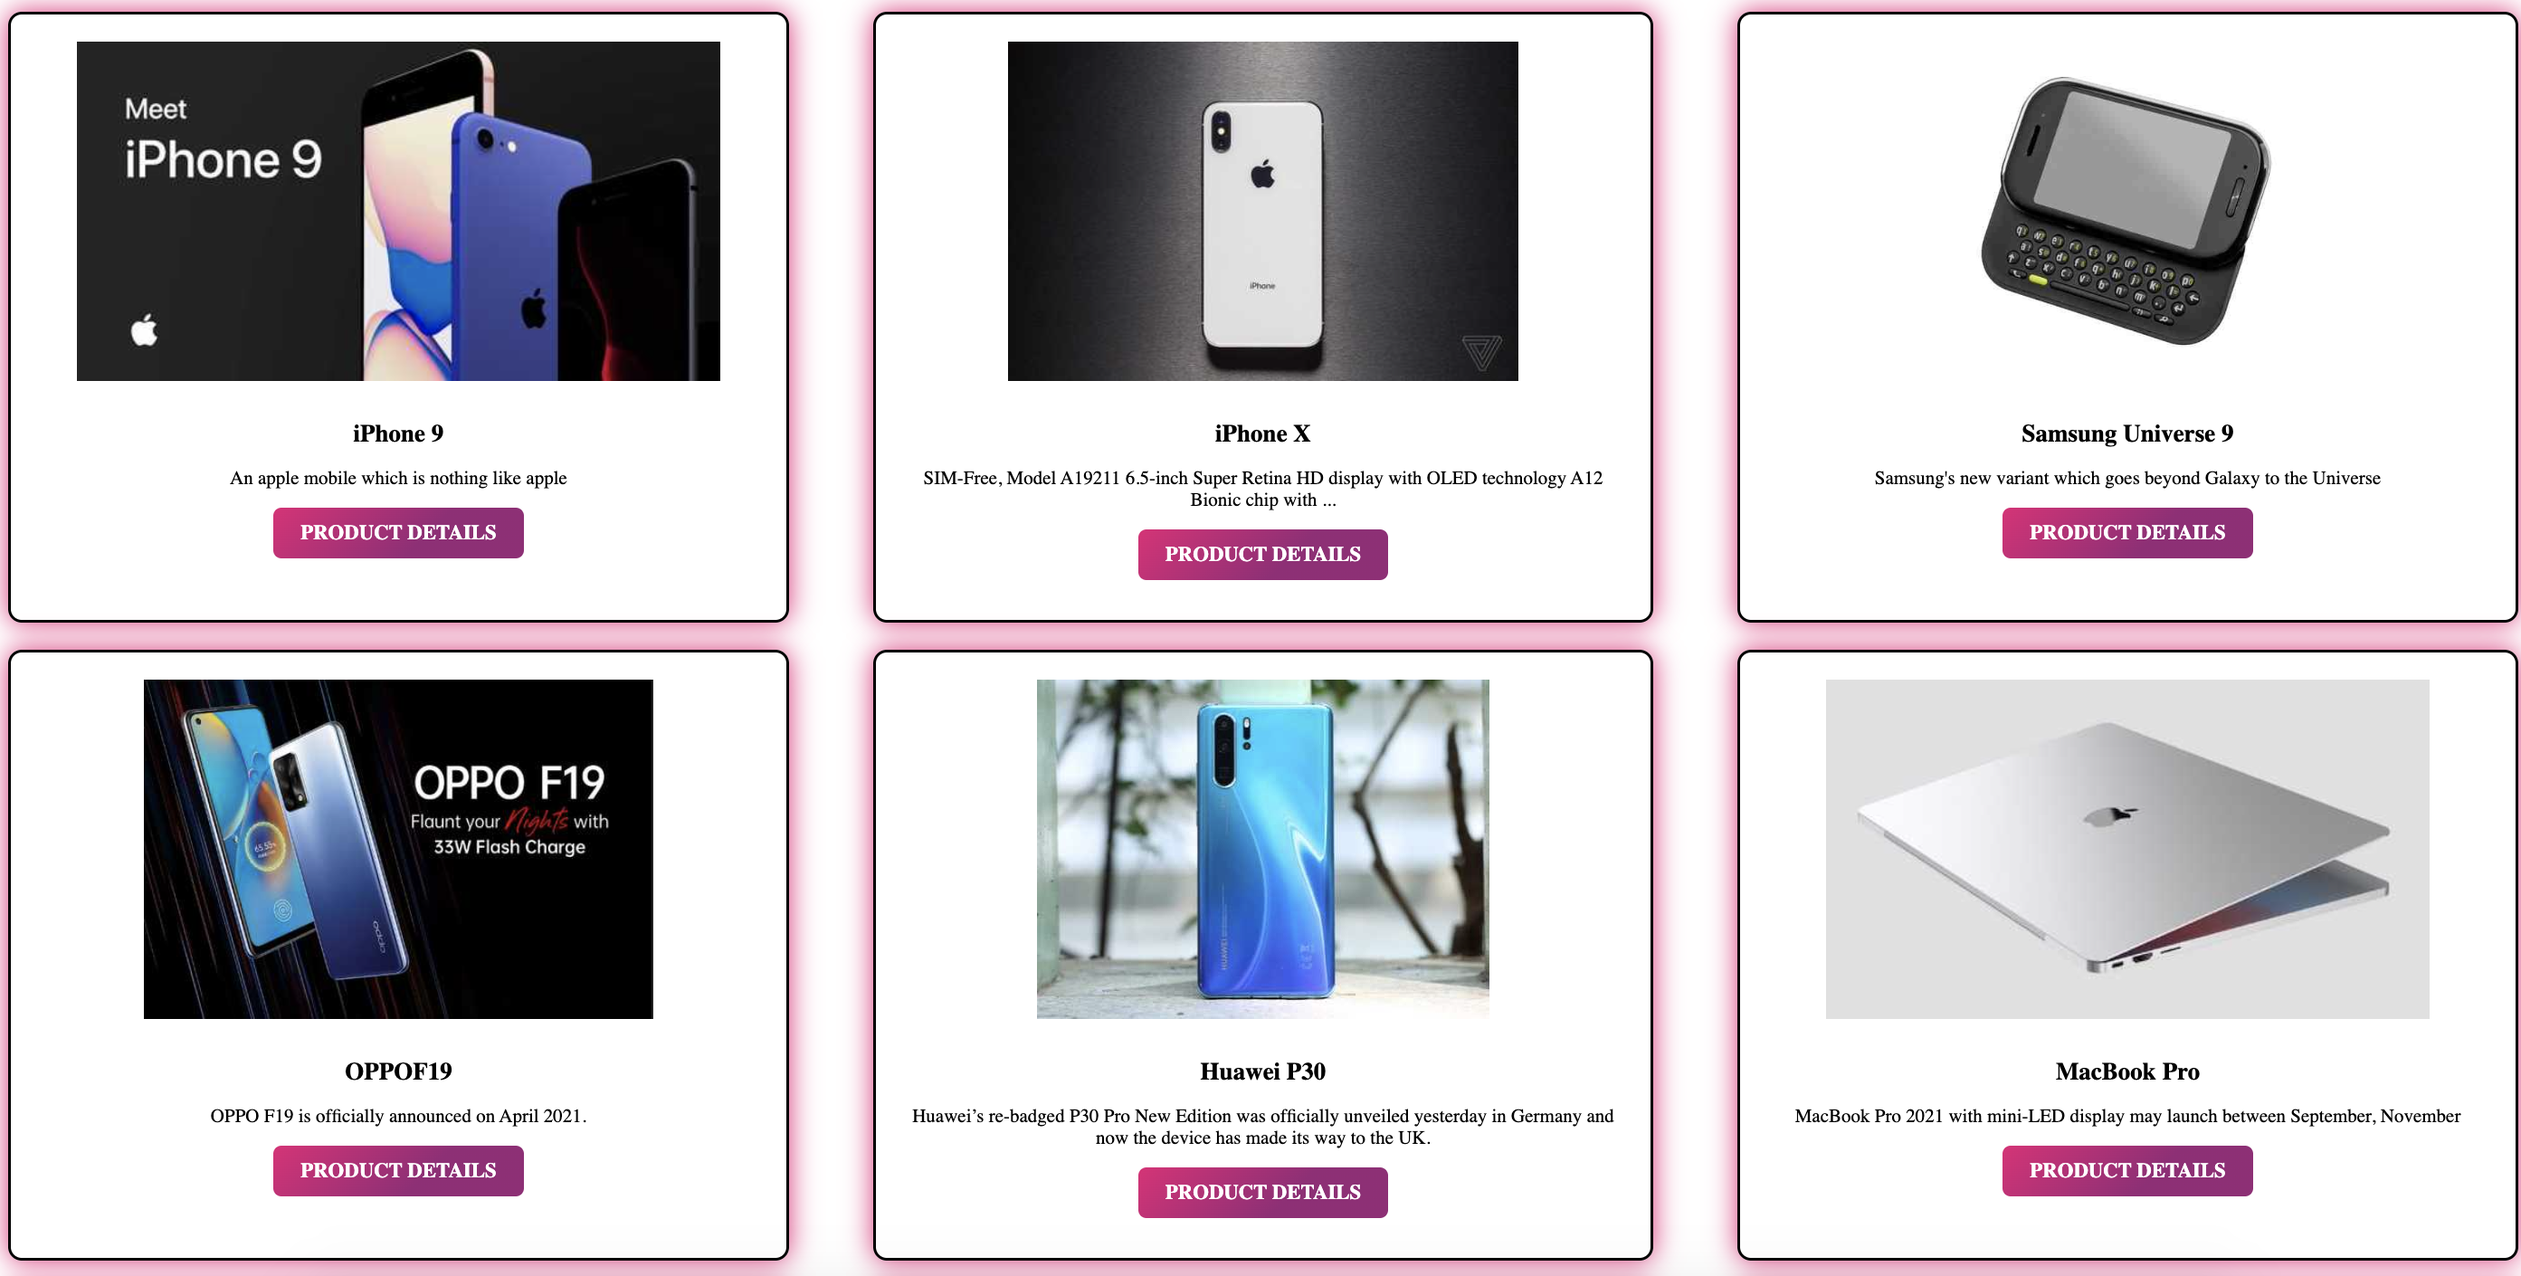
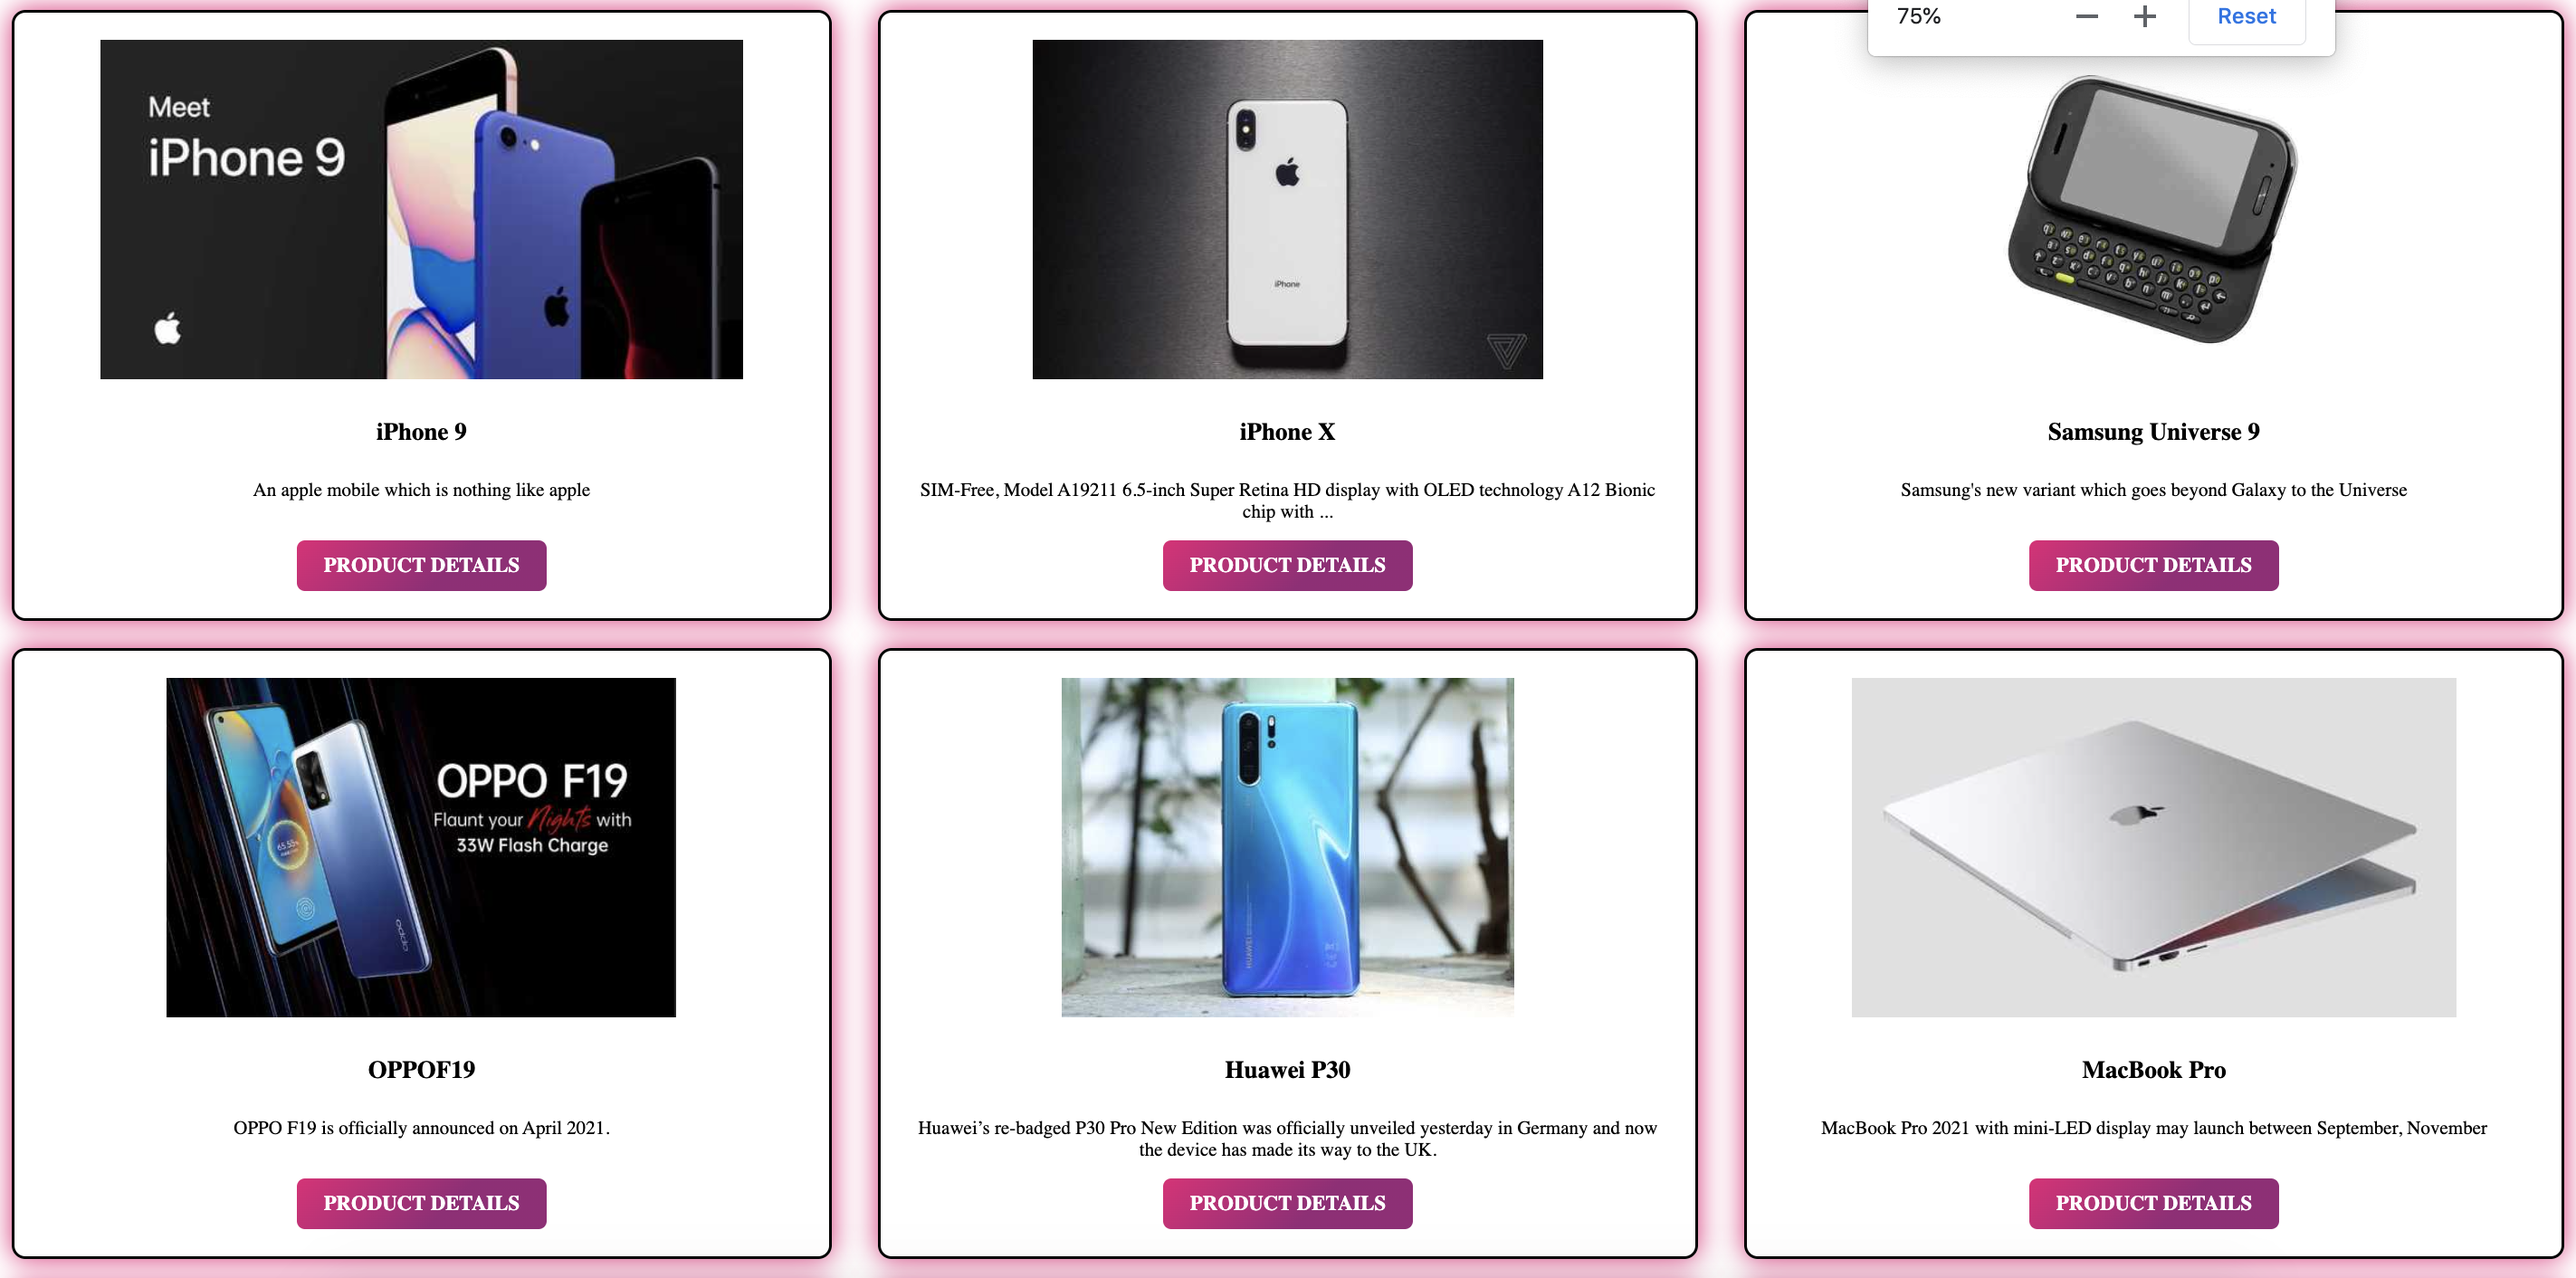
final format

diff --git a/src/pages/product/[id].js b/src/pages/product/[id].js
@@ -1,34 +1,21 @@
 import Link from 'next/link';
-import styles from '../index.module.css'; 
+import ProductDetailCard from '../../../components/ProductDetailCard';
+import { fetchProductById, fetchProducts } from '../../../utils/api';
 
 const ProductDetail = ({ product }) => {
   return (
-    <div className={styles.centeredContainer}>
-
-    <div className={styles.productDetail}> {/* Apply the CSS class */}
-      <img
-        src={product.thumbnail}
-        alt={product.title}
-        className={styles.cardImage}
-      />
-      <h2>{product.title}</h2>
-      <p>{product.description}</p>
-      <Link href="/">
-        <a className={styles.productDetailsButton}>Back to Home</a> {/* Apply the new CSS class */}
-      </Link>
-    </div> 
+    <div>
+      <ProductDetailCard product={product} /> {/* Use the ProductDetailCard component */}
     </div>
- 
   );
 };
 
 export async function getStaticPaths() {
-  // Fetch product IDs from the API
-  const response = await fetch('https://dummyjson.com/products');
-  const products = await response.json();
+  // Fetch product IDs from the API to generate paths
+  const products = await fetchProducts();
 
   // Generate paths for each product
-  const paths = products.products.map((product) => ({
+  const paths = products.map((product) => ({
     params: { id: product.id.toString() },
   }));
 
@@ -36,13 +23,19 @@ export async function getStaticPaths() {
 }
 
 export async function getStaticProps({ params }) {
-  // Fetch the specific product using the ID from the API
-  const response = await fetch(`https://dummyjson.com/products/${params.id}`);
-  const product = await response.json();
+  try {
+    // Fetch the specific product using the API function
+    const product = await fetchProductById(params.id);
 
-  return {
-    props: { product },
-  };
+    return {
+      props: { product },
+    };
+  } catch (error) {
+    console.error(`Error fetching product with ID ${params.id}:`, error);
+    return {
+      props: { product: null },
+    };
+  }
 }
 
 export default ProductDetail;

diff --git a/components/ProductCard.module.css b/components/ProductCard.module.css
@@ -5,7 +5,8 @@
 }
 
 .productCard {
-  flex-basis: calc(31.31% - 10px);
+  position: relative;
+  flex-basis: calc(32.31% - 10px);
   border: 2px solid black;
   padding: 20px;
   margin: 10px;
@@ -21,7 +22,13 @@
   box-shadow: 0 0 20px rgba(230, 21, 119, 1);
 }
 
-
+.buttonContainer {
+  position: absolute;
+  bottom: 20px;
+  left: 0;
+  width: 100%;
+  text-align: center;
+}
 
 .productDetailsButton {
   display: inline-block;
@@ -52,6 +59,15 @@
   margin-bottom: 10px;
 }
 
+.descriptionContainer {
+  max-height: 200px;
+  overflow: hidden;
+}
+
+.productDescription {
+  font-size: 14px;
+}
+
 .productCard h2 {
   font-size: 18px;
   margin-bottom: 10px;
@@ -66,54 +82,6 @@
   color: blue;
 }
 
-/* productDetail.module.css */
-.centeredContainer {
-  display: flex;
-  justify-content: center; /* Center horizontally */
-  align-items: center; /* Center vertically */
-  height: 100vh; /* Make the container full viewport height */
-}
-
-.productDetail {
-  border: 2px solid black;
-  padding: 20px;
-  margin: 10px;
-  text-align: center;
-  height: 600px;
-  border-radius: 10px;
-  overflow: hidden;
-  max-width: 400px;
-}
-
-.productCardone {
-  border: 2px solid black;
-  padding: 20px;
-  margin: 10px;
-  box-sizing: border-box;
-  text-align: center;
-  height: 600px;
-  border-radius: 10px;
-  overflow: hidden;
-  max-width: 400px;
-
-}
-
-.productDetail img {
-  max-width: 100%;
-  max-height: 100%;
-  margin-bottom: 10px;
-}
-
-.productDetail h2 {
-  font-size: 18px;
-  margin-bottom: 10px;
-}
-
-.productDetail p {
-  font-size: 14px;
-}
-
-
 /* Media query for smaller screens */
 @media screen and (max-width: 768px) {
   .productList {
@@ -123,5 +91,12 @@
 
   .productCard {
     flex-basis: 100%;
+  }
+
+  .buttonContainer {
+    position: relative; 
+    bottom: auto;
+    width: auto;
+    margin-top: 10px; 
   }
 }

diff --git a/src/pages/index.js b/src/pages/index.js
@@ -1,23 +1,13 @@
-
 import Link from 'next/link';
-import styles from './index.module.css'; 
+import styles from '../../components/ProductCard.module.css';
+import { fetchProducts } from '../../utils/api';
+import ProductCard from '../../components/ProductCard';
 
 const Home = ({ products }) => {
   return (
-    <div className={styles.productList}> {/* Apply the CSS class */}
+    <div className={styles.productList}>
       {products.map((product) => (
-        <div className={styles.productCard} key={product.id}>
-          <img
-            src={product.thumbnail}
-            alt={product.title}
-            className={styles.productImage}
-          />
-          <h2>{product.title}</h2>
-          <p>{product.description}</p>
-          <Link href={`/product/${product.id}`}>
-            <a className={styles.productDetailsButton}>Product Details</a> {/* Apply the new CSS class */}
-          </Link>
-        </div>
+        <ProductCard key={product.id} product={product} />
       ))}
     </div>
   );
@@ -25,17 +15,8 @@ const Home = ({ products }) => {
 
 export async function getStaticProps() {
   try {
-    const response = await fetch('https://dummyjson.com/products');
-
-    if (!response.ok) {
-      throw new Error('API request failed');
-    }
-
-    const data = await response.json();
-    const products = data.products; // Access the "products" array
-
-    // Log the products to inspect the data
-    console.log('Fetched products:', products);
+    // Fetch products using the API function
+    const products = await fetchProducts();
 
     return {
       props: { products },
@@ -43,7 +24,7 @@ export async function getStaticProps() {
   } catch (error) {
     console.error('Error fetching products:', error);
     return {
-      props: { products: [] }, 
+      props: { products: [] },
     };
   }
 }

diff --git a/components/ProductDetailCard.module.css b/components/ProductDetailCard.module.css
@@ -1,0 +1,64 @@
+
+.centeredContainer {
+    display: flex;
+    justify-content: center; 
+    align-items: center;
+    height: 100vh;
+  }
+  
+  .productDetail {
+    border: 2px solid black;
+    padding: 20px;
+    margin: 10px;
+    text-align: center;
+    height: 600px;
+    border-radius: 10px;
+    overflow: hidden;
+    max-width: 400px;
+  }
+  
+  .productCardone {
+    border: 2px solid black;
+    padding: 20px;
+    margin: 10px;
+    box-sizing: border-box;
+    text-align: center;
+    height: 600px;
+    border-radius: 10px;
+    overflow: hidden;
+    max-width: 400px;
+  
+  }
+  
+  .productDetail img {
+    max-width: 90%;
+    max-height: 90%;
+    margin-bottom: 10px;
+  }
+  
+  .productDetail h2 {
+    font-size: 18px;
+    margin-bottom: 10px;
+  }
+  
+  .productDetail p {
+    font-size: 14px;
+  }
+  
+  .productDetailsButton {
+    display: inline-block;
+    padding: 10px 20px;
+    background: linear-gradient(135deg,
+        rgba(230, 21, 119, 1),
+        rgba(153, 36, 120, 1) 60%);
+    color: rgb(255, 255, 255);
+    border: none;
+    border-radius: 4px;
+    cursor: pointer;
+    transition: background-color 0.3s ease;
+    text-transform: uppercase;
+    font: inherit;
+    font-size: 0.95em;
+    font-weight: 700;
+    border-radius: 6px;
+  }

diff --git a/utils/api.js b/utils/api.js
@@ -1,0 +1,31 @@
+
+export async function fetchProducts() {
+  try {
+    const response = await fetch('https://dummyjson.com/products');
+
+    if (!response.ok) {
+      throw new Error('API request failed');
+    }
+
+    const data = await response.json();
+    return data.products;
+  } catch (error) {
+    console.error('Error fetching products:', error);
+    return [];
+  }
+}
+
+export async function fetchProductById(id) {
+  try {
+    const response = await fetch(`https://dummyjson.com/products/${id}`);
+
+    if (!response.ok) {
+      throw new Error('API request failed');
+    }
+
+    return await response.json();
+  } catch (error) {
+    console.error(`Error fetching product with ID ${id}:`, error);
+    return null;
+  }
+}

diff --git a/components/ProductDetailCard.js b/components/ProductDetailCard.js
@@ -1,0 +1,27 @@
+import Link from 'next/link';
+import styles from './ProductDetailCard.module.css';
+
+const ProductDetailCard = ({ product }) => {
+  if (!product) {
+    return <p>Product not found</p>;
+  }
+
+  return (
+    <div className={styles.centeredContainer}>
+      <div className={styles.productDetail}> {/* Apply the CSS class */}
+        <img
+          src={product.thumbnail}
+          alt={product.title}
+          className={styles.cardImage}
+        />
+        <h2>{product.title}</h2>
+        <p>{product.description}</p>
+        <Link href="/">
+          <button className={styles.productDetailsButton}>Back to home</button>
+        </Link>
+      </div>
+    </div>
+  );
+};
+
+export default ProductDetailCard;

diff --git a/components/ProductCard.js b/components/ProductCard.js
@@ -1,0 +1,22 @@
+import Link from 'next/link';
+import styles from './ProductCard.module.css';
+
+const ProductCard = ({ product }) => {
+  return (
+    <div className={styles.productCard}>
+      <img src={product.thumbnail} alt={product.title} className={styles.productImage} />
+      <h2>{product.title}</h2>
+      <div className={styles.descriptionContainer}>
+        <p className={styles.productDescription}>{product.description}</p>
+      </div>
+      <div className={styles.buttonContainer}>
+        <Link href={`/product/${product.id}`}>
+          <button className={styles.productDetailsButton}>Product Details</button>
+        </Link>
+      </div>
+    </div>
+
+  );
+};
+
+export default ProductCard;
